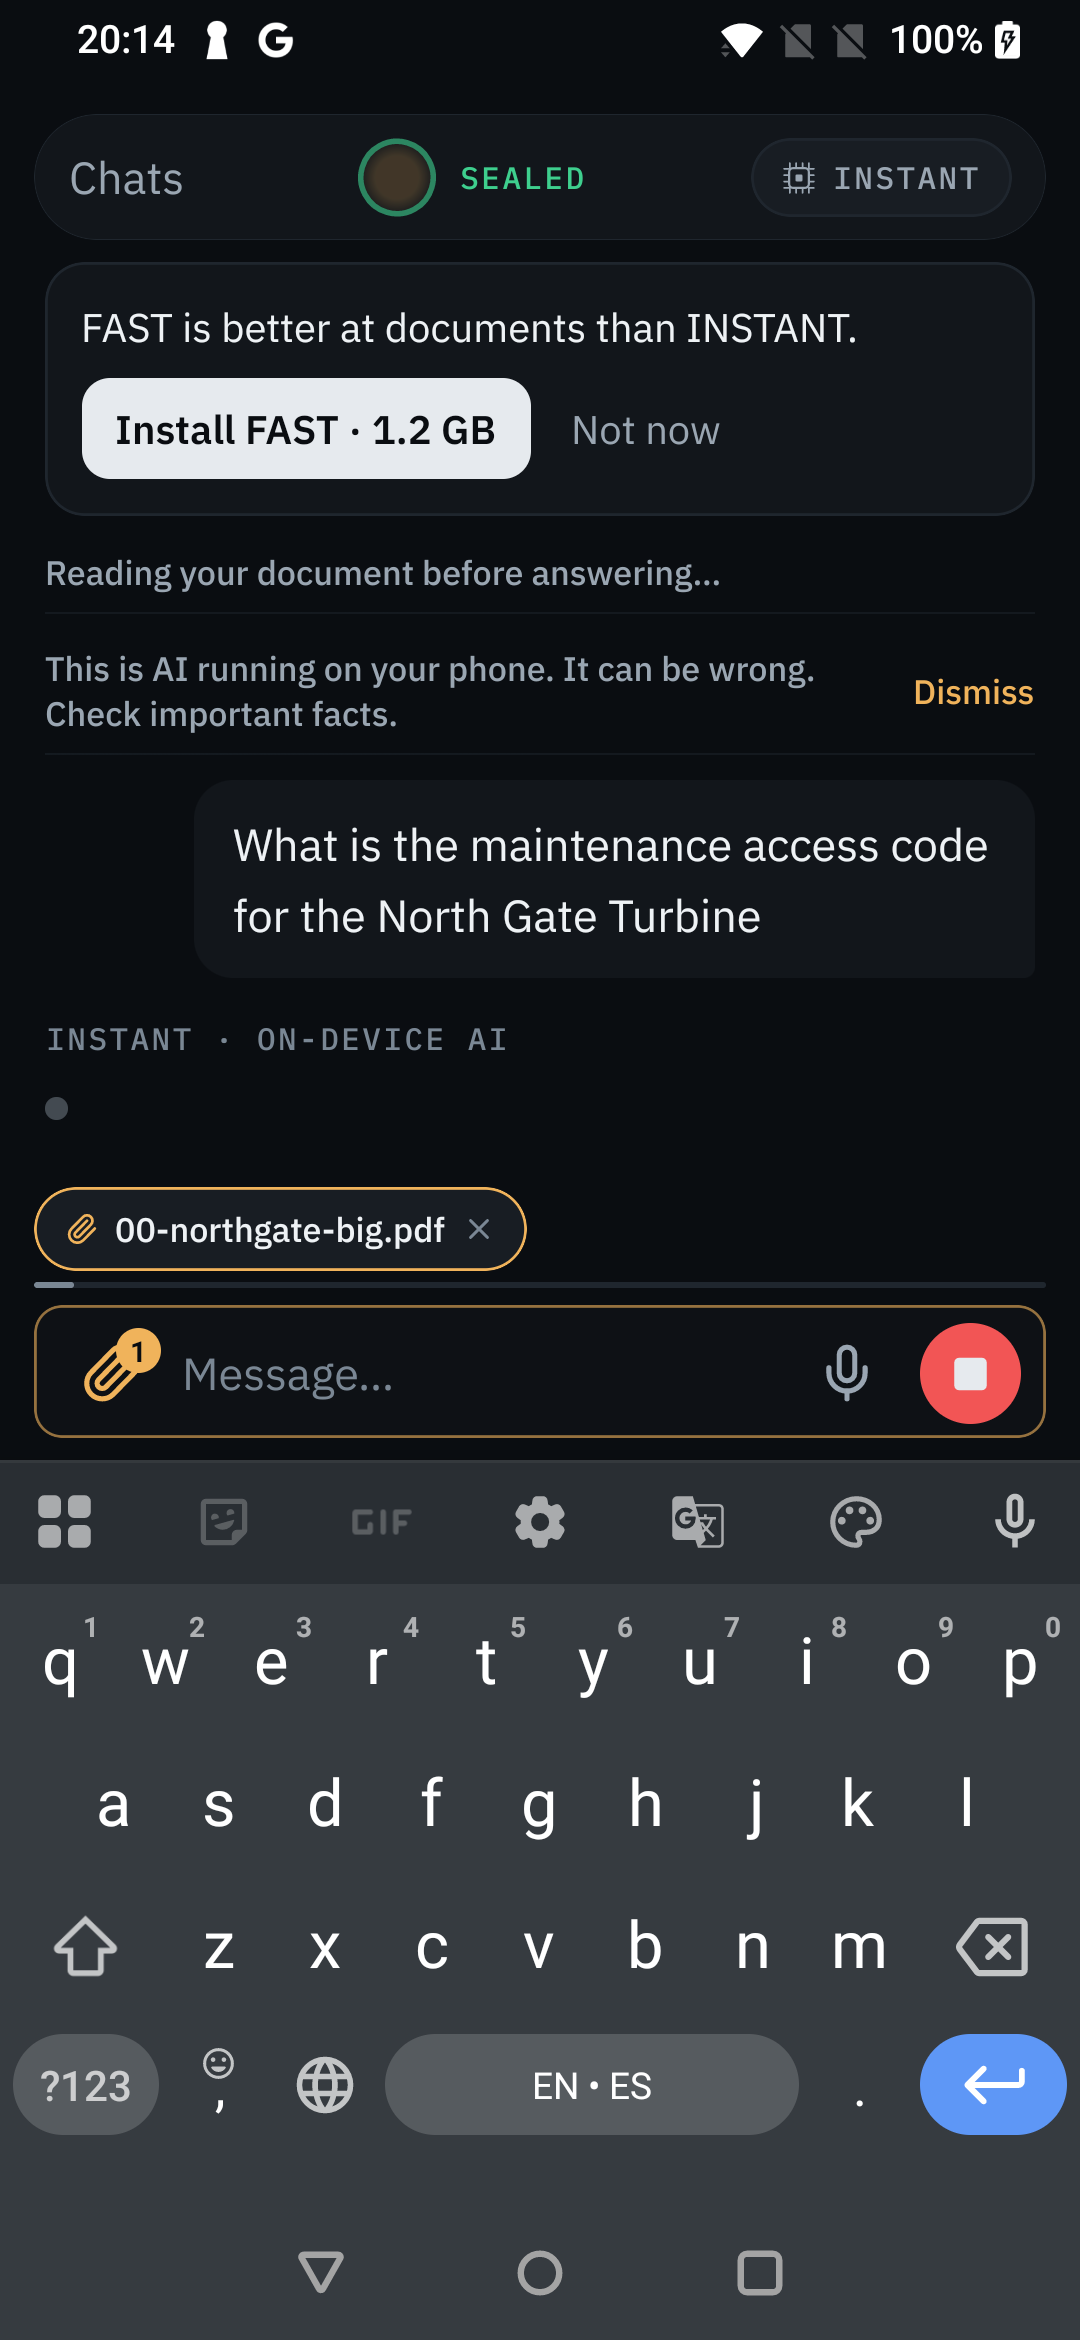
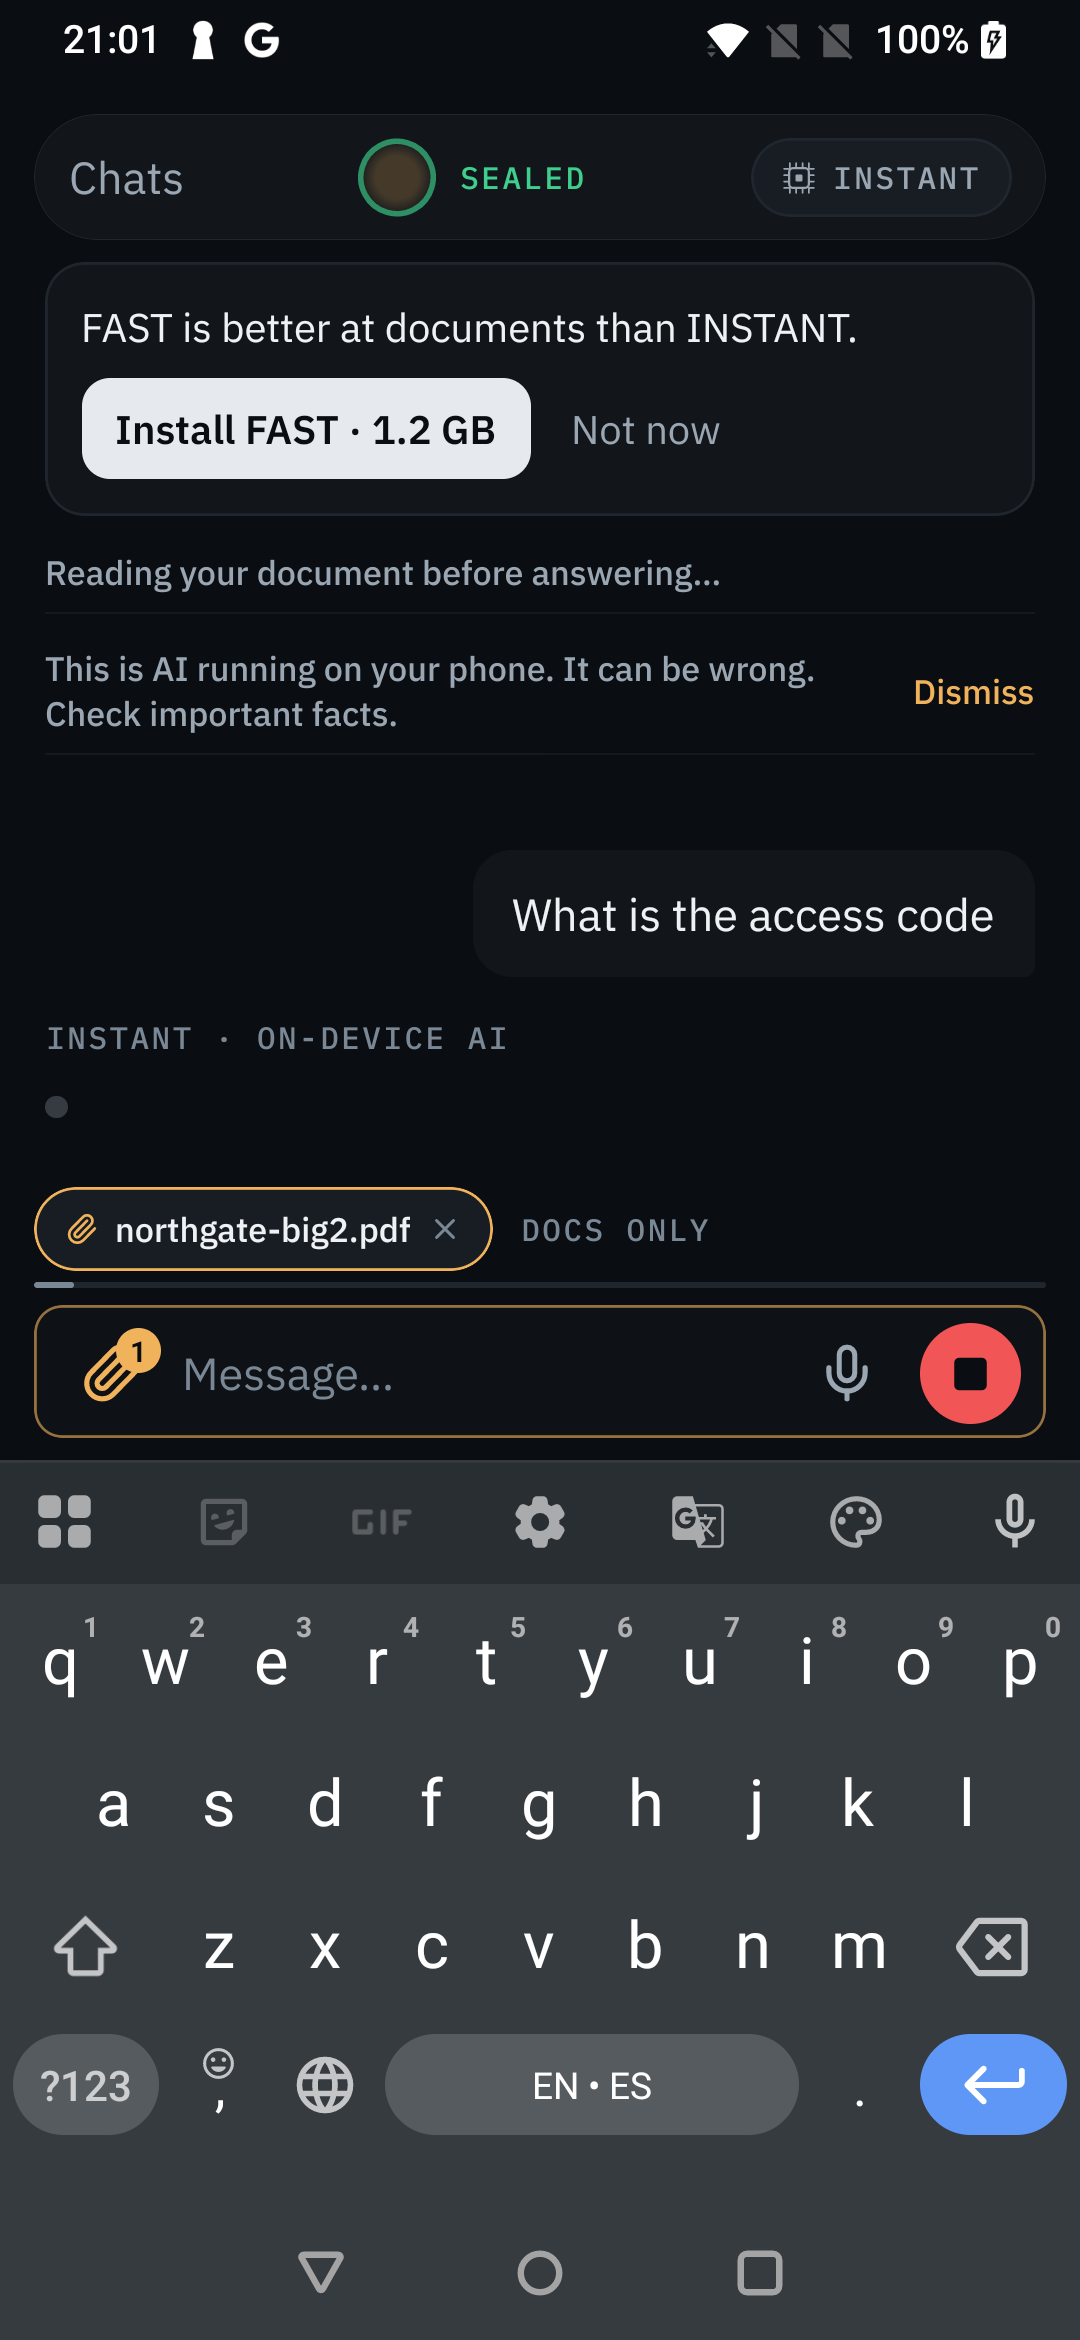
docs(qa): re-check round 37 on the phone after merging main
The library row's paywall now names the moment, so Pro meets "You opened a
spreadsheet. Pro for Work reads Excel and HTML files." Notes the dedupe trap that
makes a second recording of the wait need a fresh hash.

Claude-Session: https://claude.ai/code/session_01FxYNpoNdPEMn53C3TEZdMz

diff --git a/docs/qa/attach-android/README.md b/docs/qa/attach-android/README.md
@@ -65,6 +65,11 @@ Recipes that cost time here and are not in the repo:
   is_pending:i:0 --bind _size:i:<bytes>`); for the photo picker, `datetaken` also decides the position in `Recent`.
 - `uiautomator dump` and the driver APK both take the UiAutomation service. Running them at once crashes the driver
   with `Process crashed` inside `getUiAutomation`; serialise them.
+- The library dedupes by content, so importing the same file again reuses the record that is already indexed and the
+  turn never waits. To film the wait a second time, change one byte: `northgate-big2.pdf` is `northgate-big.pdf` with a
+  trailing PDF comment.
+- Indexing in the debug bundle runs at about 11 s/page against roughly 1.5 s/page in the Play build. Times in these
+  logs are the dev bundle's, not the product's.
 
 ## Proven on the phone, on the fixed build
 
@@ -74,7 +79,7 @@ models pushed into its own `files/`. The Play build and its vault were not touch
 
 | what | before (Play 1.0.0 (19)) | after (fixed build, same phone, same files) |
 |---|---|---|
-| 40-page PDF, question asked while it indexes | invented `"NORTGATE"`, no citation | holds the turn, *"Reading your document before answering…"*, then *"…is ZR-4471-QX…"* with `p.30` cited |
+| 40-page PDF, question asked while it indexes | invented `"NORTGATE"`, no citation | holds the turn, *"Reading your document before answering…"*, then *"…is ZR-4471-QX…"* with `p.30` cited. Re-checked after `origin/main` was merged, strict on as well as off |
 | photo attached with **Add a file…** | *"I don't see an attached photo."* | *"That is a picture… attach it with the Photo button instead."*, and that button then describes the door |
 | strict on, question not in the file | — | *"I could not find that in your documents."* No invention |
 | strict off, same question | — | *"The capital of Portugal is Lisbon."* The model answers, as designed |
